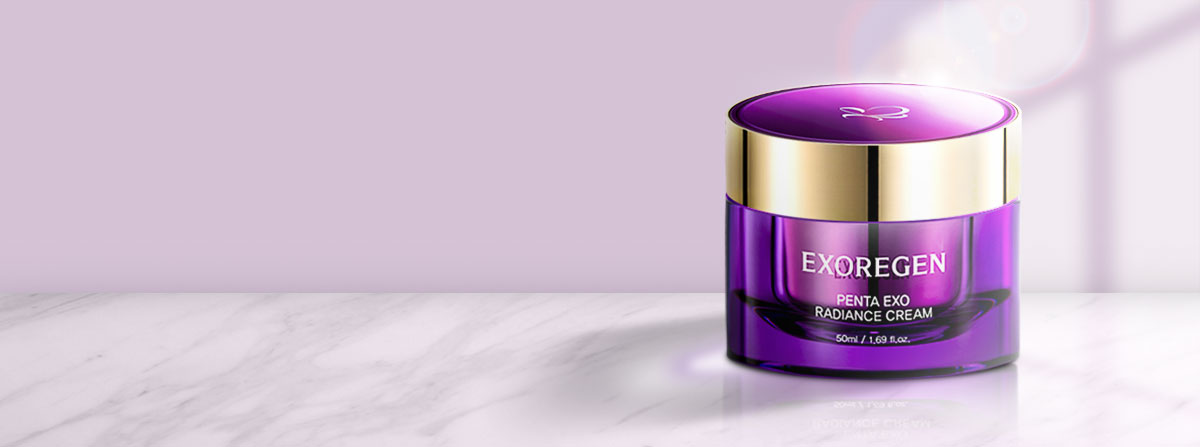
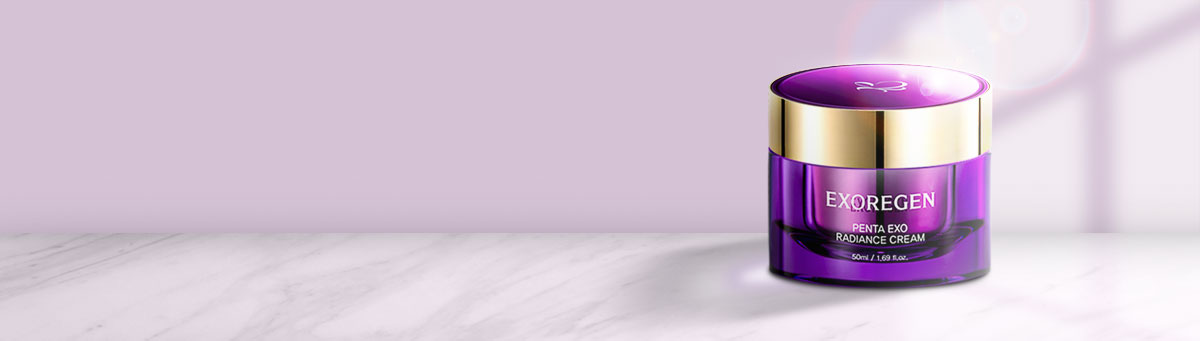
[PC]메인 - 랜딩페이지 링크 영역 이미지 수정

diff --git a/src_/css/main.css b/src_/css/main.css
@@ -66,7 +66,7 @@ span.swiper-pagination-current { font-weight: 600; }
 /** 시즌 섹션 **/
 .season-section { margin-bottom: 100px;}
 
-.season-section a {display: block; box-sizing: border-box; width: 1200px; height: 447px; margin: 40px auto 0; background-image: url(/img_/season_img.jpg); background-size: cover; background-position: center; position: relative;}
+.season-section a {display: block; box-sizing: border-box; width: 1200px; height: 341px; margin: 40px auto 0; background-image: url(/img_/season_img.jpg); background-size: cover; background-position: center; position: relative;}
 
 .season-section a .tit-wrap {position: absolute; top: 50%; left: 160px; transform: translateY(-50%);}
 
